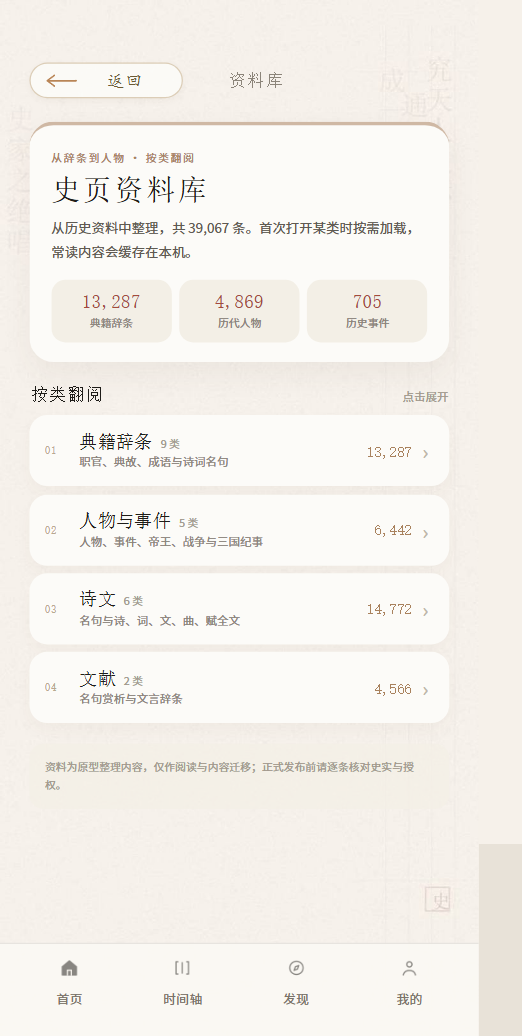
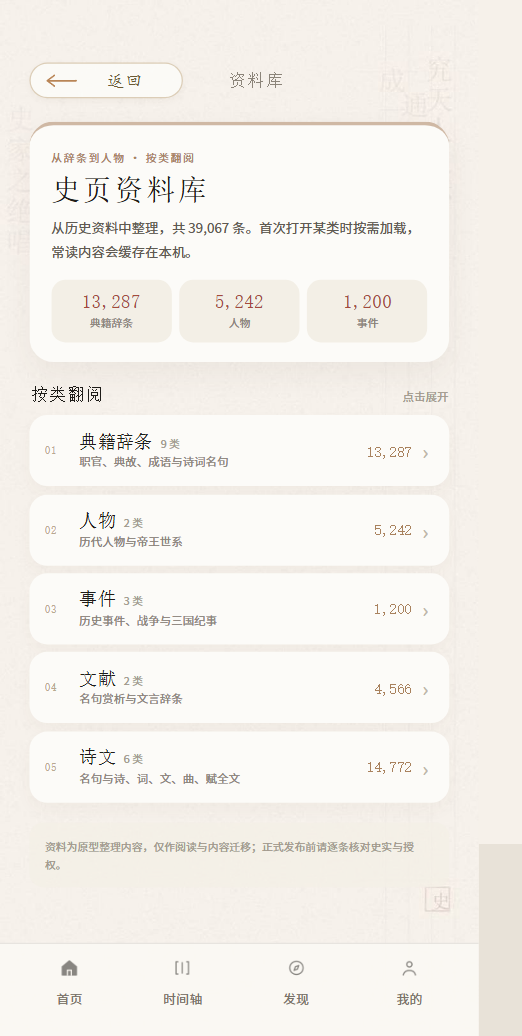
feat: 资料库人物、事件、文献、诗文单独成组（selftest 1576）

diff --git a/ui/preview/_bundle.js b/ui/preview/_bundle.js
@@ -5183,15 +5183,17 @@ function safeTitle(value, fallback) {
 
 const GROUP_DEFS = [
   { key: 'cards', name: '典籍辞条', desc: '职官、典故、成语与诗词名句' },
-  { key: 'people', name: '人物与事件', desc: '人物、事件、帝王、战争与三国纪事' },
-  { key: 'poems', name: '诗文', desc: '名句与诗、词、文、曲、赋全文' },
-  { key: 'docs', name: '文献', desc: '名句赏析与文言辞条' }
+  { key: 'people', name: '人物', desc: '历代人物与帝王世系' },
+  { key: 'events', name: '事件', desc: '历史事件、战争与三国纪事' },
+  { key: 'docs', name: '文献', desc: '名句赏析与文言辞条' },
+  { key: 'poems', name: '诗文', desc: '名句与诗、词、文、曲、赋全文' }
 ];
 
 const GROUP_KEYS = {
-  people: ['figures', 'events', 'emperors', 'wars', 'dynasty'],
-  poems: ['poemquotes', 'poems-shi', 'poems-ci', 'poems-wen', 'poems-qu', 'poems-fu'],
-  docs: ['quotes', 'wenyan']
+  people: ['figures', 'emperors'],
+  events: ['events', 'wars', 'dynasty'],
+  docs: ['quotes', 'wenyan'],
+  poems: ['poemquotes', 'poems-shi', 'poems-ci', 'poems-wen', 'poems-qu', 'poems-fu']
 };
 
 function buildRows(groups, openKey) {
@@ -5279,6 +5281,12 @@ Page('project://pages/archive/archive.js', {
         items
       };
     });
+    const groupByKey = {};
+    groups.forEach((group) => {
+      groupByKey[group.key] = group;
+    });
+    stats.figuresText = fmt(groupByKey.people.count);
+    stats.eventsText = fmt(groupByKey.events.count);
     this.groups = groups;
     this.setData({
       stats,
@@ -5338,7 +5346,7 @@ Page('project://pages/archive/archive.js', {
 });
 
 });
-__register('/pages/archive/archive.wxml', function (require, module, exports) { module.exports = "<view class=\"page fs-{{fontClass}}\">\n  <image class=\"paper-bg\" src=\"/assets/paper-bg.jpg\" mode=\"aspectFill\"></image>\n  <view class=\"screen\">\n    <view class=\"topbar\">\n      <view class=\"back\" bindtap=\"goBack\">\n        <image class=\"back-arrow\" src=\"/assets/back-arrow.png\" mode=\"widthFix\"></image>\n        <text class=\"back-label\">返回</text>\n      </view>\n      <text class=\"top-title\">资料库</text>\n    </view>\n\n    <view class=\"hero\">\n      <text class=\"hero-kicker\">从辞条到人物 · 按类翻阅</text>\n      <text class=\"hero-title\">史页资料库</text>\n      <text class=\"hero-desc\">从历史资料中整理，共 {{stats.totalText}} 条。首次打开某类时按需加载，常读内容会缓存在本机。</text>\n      <view class=\"hero-stats\">\n        <view class=\"hstat\">\n          <text class=\"hnum\">{{stats.cardsText}}</text>\n          <text class=\"hlab\">典籍辞条</text>\n        </view>\n        <view class=\"hstat\">\n          <text class=\"hnum\">{{stats.figuresText}}</text>\n          <text class=\"hlab\">历代人物</text>\n        </view>\n        <view class=\"hstat\">\n          <text class=\"hnum\">{{stats.eventsText}}</text>\n          <text class=\"hlab\">历史事件</text>\n        </view>\n      </view>\n    </view>\n\n    <view class=\"section-head\">\n      <text class=\"section-title\">按类翻阅</text>\n      <text class=\"section-link\">{{openKey ? '再点收起' : '点击展开'}}</text>\n    </view>\n    <view class=\"group-list\">\n      <block wx:for=\"{{rows}}\" wx:key=\"key\">\n        <view\n          wx:if=\"{{item.rowType === 'group'}}\"\n          class=\"group-card {{item.open ? 'open' : ''}}\"\n          data-key=\"{{item.groupKey}}\"\n          bindtap=\"onToggle\"\n        >\n          <text class=\"group-index\">{{item.index}}</text>\n          <view class=\"group-main\">\n            <view class=\"group-title-row\">\n              <text class=\"group-name\">{{item.name}}</text>\n              <text class=\"group-meta\">{{item.meta}}</text>\n            </view>\n            <text class=\"group-desc\">{{item.desc}}</text>\n          </view>\n          <text class=\"group-count\">{{item.countText}}</text>\n          <text class=\"group-chevron {{item.open ? 'open' : ''}}\">›</text>\n        </view>\n        <view\n          wx:elif=\"{{item.rowType === 'item'}}\"\n          class=\"entry-row\"\n          data-kind=\"{{item.kind}}\"\n          data-type=\"{{item.type}}\"\n          data-name=\"{{item.name}}\"\n          bindtap=\"onEntry\"\n        >\n          <view class=\"entry-main\">\n            <text class=\"entry-name\">{{item.name}}</text>\n            <text class=\"entry-desc\">{{item.desc}}</text>\n          </view>\n          <text class=\"entry-count\">{{item.countText}}</text>\n          <text class=\"entry-arrow\">›</text>\n        </view>\n      </block>\n    </view>\n\n    <view class=\"note\">资料为原型整理内容，仅作阅读与内容迁移；正式发布前请逐条核对史实与授权。</view>\n  </view>\n</view>\n"; });
+__register('/pages/archive/archive.wxml', function (require, module, exports) { module.exports = "<view class=\"page fs-{{fontClass}}\">\n  <image class=\"paper-bg\" src=\"/assets/paper-bg.jpg\" mode=\"aspectFill\"></image>\n  <view class=\"screen\">\n    <view class=\"topbar\">\n      <view class=\"back\" bindtap=\"goBack\">\n        <image class=\"back-arrow\" src=\"/assets/back-arrow.png\" mode=\"widthFix\"></image>\n        <text class=\"back-label\">返回</text>\n      </view>\n      <text class=\"top-title\">资料库</text>\n    </view>\n\n    <view class=\"hero\">\n      <text class=\"hero-kicker\">从辞条到人物 · 按类翻阅</text>\n      <text class=\"hero-title\">史页资料库</text>\n      <text class=\"hero-desc\">从历史资料中整理，共 {{stats.totalText}} 条。首次打开某类时按需加载，常读内容会缓存在本机。</text>\n      <view class=\"hero-stats\">\n        <view class=\"hstat\">\n          <text class=\"hnum\">{{stats.cardsText}}</text>\n          <text class=\"hlab\">典籍辞条</text>\n        </view>\n        <view class=\"hstat\">\n          <text class=\"hnum\">{{stats.figuresText}}</text>\n          <text class=\"hlab\">人物</text>\n        </view>\n        <view class=\"hstat\">\n          <text class=\"hnum\">{{stats.eventsText}}</text>\n          <text class=\"hlab\">事件</text>\n        </view>\n      </view>\n    </view>\n\n    <view class=\"section-head\">\n      <text class=\"section-title\">按类翻阅</text>\n      <text class=\"section-link\">{{openKey ? '再点收起' : '点击展开'}}</text>\n    </view>\n    <view class=\"group-list\">\n      <block wx:for=\"{{rows}}\" wx:key=\"key\">\n        <view\n          wx:if=\"{{item.rowType === 'group'}}\"\n          class=\"group-card {{item.open ? 'open' : ''}}\"\n          data-key=\"{{item.groupKey}}\"\n          bindtap=\"onToggle\"\n        >\n          <text class=\"group-index\">{{item.index}}</text>\n          <view class=\"group-main\">\n            <view class=\"group-title-row\">\n              <text class=\"group-name\">{{item.name}}</text>\n              <text class=\"group-meta\">{{item.meta}}</text>\n            </view>\n            <text class=\"group-desc\">{{item.desc}}</text>\n          </view>\n          <text class=\"group-count\">{{item.countText}}</text>\n          <text class=\"group-chevron {{item.open ? 'open' : ''}}\">›</text>\n        </view>\n        <view\n          wx:elif=\"{{item.rowType === 'item'}}\"\n          class=\"entry-row\"\n          data-kind=\"{{item.kind}}\"\n          data-type=\"{{item.type}}\"\n          data-name=\"{{item.name}}\"\n          bindtap=\"onEntry\"\n        >\n          <view class=\"entry-main\">\n            <text class=\"entry-name\">{{item.name}}</text>\n            <text class=\"entry-desc\">{{item.desc}}</text>\n          </view>\n          <text class=\"entry-count\">{{item.countText}}</text>\n          <text class=\"entry-arrow\">›</text>\n        </view>\n      </block>\n    </view>\n\n    <view class=\"note\">资料为原型整理内容，仅作阅读与内容迁移；正式发布前请逐条核对史实与授权。</view>\n  </view>\n</view>\n"; });
 __register('/pages/archive/archive.wxss', function (require, module, exports) { module.exports = ".page {\n  position: relative;\n  min-height: 100vh;\n  overflow: hidden;\n  background: #F6F1EA;\n}\n\n.paper-bg {\n  position: fixed;\n  left: 0;\n  top: 0;\n  z-index: 0;\n  width: 100%;\n  height: 100%;\n  opacity: 0.96;\n}\n\n.screen {\n  position: relative;\n  z-index: 2;\n  padding: 0 46rpx 120rpx;\n}\n\n.topbar {\n  position: relative;\n  margin-top: 88rpx;\n  height: 76rpx;\n  display: flex;\n  align-items: center;\n  justify-content: space-between;\n}\n\n.back {\n  position: relative;\n  width: 240rpx;\n  height: 56rpx;\n  border-radius: 28rpx;\n  border: 1rpx solid rgba(176, 142, 96, 0.42);\n  background: rgba(252, 251, 248, 0.86);\n  box-shadow: 0 4rpx 12rpx rgba(90, 70, 50, 0.05);\n  overflow: hidden;\n}\n\n.back-arrow {\n  position: absolute;\n  left: 20rpx;\n  top: 50%;\n  width: 56rpx;\n  height: auto;\n  display: block;\n  transform: translateY(-50%);\n}\n\n.back-label {\n  position: absolute;\n  left: 76rpx;\n  right: 18rpx;\n  top: 0;\n  height: 56rpx;\n  line-height: 56rpx;\n  text-align: center;\n  font-family: \"KaiTi\", \"STKaiti\", \"Songti SC\", serif;\n  font-size: 26rpx;\n  letter-spacing: 0.1em;\n  text-indent: 0.1em;\n  color: #6B5A33;\n}\n\n.top-title {\n  position: absolute;\n  left: 54%;\n  transform: translateX(-50%);\n  font-family: \"Songti SC\", \"STSong\", \"SimSun\", serif;\n  font-size: calc(26rpx * var(--fs, 1));\n  letter-spacing: 0.08em;\n  color: #8C857A;\n}\n\n.hero {\n  position: relative;\n  margin-top: 26rpx;\n  padding: 38rpx 34rpx 32rpx;\n  border-radius: 38rpx;\n  background: #FCFBF8;\n  border-top: 6rpx solid rgba(169, 130, 94, 0.55);\n  box-shadow: 0 20rpx 46rpx rgba(90, 70, 50, 0.06);\n}\n\n.hero-kicker {\n  display: block;\n  font-size: calc(17rpx * var(--fs, 1));\n  letter-spacing: 0.14em;\n  color: #A9825E;\n}\n\n.hero-title {\n  display: block;\n  margin-top: 12rpx;\n  font-family: \"Songti SC\", \"STSong\", \"SimSun\", serif;\n  font-size: calc(46rpx * var(--fs, 1));\n  letter-spacing: 0.08em;\n  color: #1F1D19;\n}\n\n.hero-desc {\n  display: block;\n  margin-top: 16rpx;\n  font-size: calc(21rpx * var(--fs, 1));\n  line-height: 1.75;\n  color: #5F5A52;\n}\n\n.hero-stats {\n  display: flex;\n  gap: 12rpx;\n  margin-top: 26rpx;\n}\n\n.hstat {\n  flex: 1;\n  min-width: 0;\n  padding: 18rpx 12rpx;\n  border-radius: 22rpx;\n  background: #F3EFE6;\n  text-align: center;\n}\n\n.hnum {\n  display: block;\n  font-family: \"Songti SC\", \"STSong\", \"SimSun\", serif;\n  font-size: calc(30rpx * var(--fs, 1));\n  color: #A34A3E;\n}\n\n.hlab {\n  display: block;\n  margin-top: 4rpx;\n  font-size: calc(17rpx * var(--fs, 1));\n  color: #8C857A;\n}\n\n.section-head {\n  display: flex;\n  align-items: baseline;\n  justify-content: space-between;\n  margin: 36rpx 2rpx 16rpx;\n}\n\n.section-title {\n  font-family: \"Songti SC\", \"STSong\", \"SimSun\", serif;\n  font-size: calc(27rpx * var(--fs, 1));\n  letter-spacing: 0.08em;\n  color: #1F1D19;\n}\n\n.section-link {\n  font-size: calc(18rpx * var(--fs, 1));\n  color: #A39A8E;\n}\n\n.group-list {\n  display: block;\n}\n\n.group-card {\n  display: flex;\n  align-items: center;\n  margin-bottom: 12rpx;\n  padding: 24rpx;\n  border-radius: 28rpx;\n  background: #FCFBF8;\n  box-shadow: 0 12rpx 26rpx rgba(90, 70, 50, 0.04);\n}\n\n.group-card:active {\n  background: #F7F3EC;\n}\n\n.group-card.open {\n  background: #FBF7EF;\n  box-shadow: 0 14rpx 30rpx rgba(90, 70, 50, 0.06);\n}\n\n.group-index {\n  flex: none;\n  width: 38rpx;\n  font-family: \"Songti SC\", \"STSong\", \"SimSun\", serif;\n  font-size: calc(18rpx * var(--fs, 1));\n  letter-spacing: 0.06em;\n  color: #B9A98F;\n}\n\n.group-main {\n  flex: 1;\n  min-width: 0;\n  margin: 0 16rpx;\n}\n\n.group-title-row {\n  display: flex;\n  align-items: baseline;\n}\n\n.group-name {\n  font-family: \"Songti SC\", \"STSong\", \"SimSun\", serif;\n  font-size: calc(28rpx * var(--fs, 1));\n  color: #1F1D19;\n}\n\n.group-meta {\n  margin-left: 12rpx;\n  font-size: calc(17rpx * var(--fs, 1));\n  color: #A39A8E;\n}\n\n.group-desc {\n  display: block;\n  margin-top: 5rpx;\n  font-size: calc(18rpx * var(--fs, 1));\n  line-height: 1.45;\n  color: #8C857A;\n  white-space: nowrap;\n  overflow: hidden;\n  text-overflow: ellipsis;\n}\n\n.group-count {\n  flex: none;\n  font-family: \"Songti SC\", \"STSong\", \"SimSun\", serif;\n  font-size: calc(24rpx * var(--fs, 1));\n  color: #A9825E;\n}\n\n.group-chevron {\n  flex: none;\n  width: 28rpx;\n  margin-left: 8rpx;\n  text-align: center;\n  font-size: 30rpx;\n  color: #C0B6A8;\n  transition: transform 0.2s ease;\n}\n\n.group-chevron.open {\n  transform: rotate(90deg);\n}\n\n.entry-row {\n  display: flex;\n  align-items: center;\n  margin: 0 8rpx 8rpx;\n  padding: 20rpx 20rpx 20rpx 24rpx;\n  border-radius: 20rpx;\n  border-left: 3rpx solid rgba(169, 130, 94, 0.18);\n  background: #FCFBF8;\n  box-shadow: 0 6rpx 14rpx rgba(90, 70, 50, 0.03);\n}\n\n.entry-row:active {\n  background: #F7F3EC;\n}\n\n.entry-main {\n  flex: 1;\n  min-width: 0;\n}\n\n.entry-name {\n  display: block;\n  font-family: \"Songti SC\", \"STSong\", \"SimSun\", serif;\n  font-size: calc(24rpx * var(--fs, 1));\n  color: #1F1D19;\n}\n\n.entry-desc {\n  display: block;\n  margin-top: 4rpx;\n  font-size: calc(17rpx * var(--fs, 1));\n  line-height: 1.45;\n  color: #8C857A;\n  white-space: nowrap;\n  overflow: hidden;\n  text-overflow: ellipsis;\n}\n\n.entry-count {\n  flex: none;\n  margin-left: 16rpx;\n  font-family: \"Songti SC\", \"STSong\", \"SimSun\", serif;\n  font-size: calc(21rpx * var(--fs, 1));\n  color: #A9825E;\n}\n\n.entry-arrow {\n  flex: none;\n  margin-left: 8rpx;\n  font-family: \"Songti SC\", \"STSong\", \"SimSun\", serif;\n  font-size: 28rpx;\n  color: #C0B6A8;\n}\n\n.note {\n  margin-top: 32rpx;\n  padding: 22rpx 24rpx;\n  border-radius: 22rpx;\n  background: rgba(243, 239, 230, 0.7);\n  font-size: calc(17rpx * var(--fs, 1));\n  line-height: 1.7;\n  color: #A39A8E;\n}\n"; });
 __register('/pages/archive-list/archive-list.js', function (require, module, exports) {
 const font = require('../../utils/font.js');

diff --git a/tools/selftest.js b/tools/selftest.js
@@ -700,15 +700,39 @@ console.log('== 资料库 ==');
   eq(archive.data.categories.length, 9, '资料库九个辞条分类');
   eq(archive.data.sections.length, 13, '资料库十三个人物/事件/文献入口');
   eq(archive.data.categories[0].name, '职官辞典', '资料库分类按数量排序');
-  eq(archive.data.rows.length, 4, '资料库首屏只展示四个分类组');
+  eq(archive.data.rows.length, 5, '资料库首屏展示五个分类组');
   eq(archive.data.rows[0].name, '典籍辞条', '资料库首组为典籍辞条');
+  eq(archive.data.groups.length, 5, '资料库五个分类组');
+  eq(archive.data.groups[1].name, '人物', '人物单独成组');
+  eq(archive.data.groups[1].countText, '5,242', '人物组数量');
+  eq(archive.data.groups[2].name, '事件', '事件单独成组');
+  eq(archive.data.groups[2].countText, '1,200', '事件组数量');
+  eq(archive.data.groups[3].name, '文献', '文献单独成组');
+  eq(archive.data.groups[3].countText, '4,566', '文献组数量');
+  eq(archive.data.groups[4].name, '诗文', '诗文单独成组');
+  eq(archive.data.groups[4].countText, '14,772', '诗文组数量');
+  eq(archive.data.stats.figuresText, '5,242', '首屏人物统计与人物组一致');
+  eq(archive.data.stats.eventsText, '1,200', '首屏事件统计与事件组一致');
 
   tap(archive, 'onToggle', { key: 'cards' });
   eq(archive.data.openKey, 'cards', '展开典籍辞条');
-  eq(archive.data.rows.length, 13, '展开后显示九个辞条分类');
+  eq(archive.data.rows.length, 14, '展开后显示九个辞条分类');
   eq(archive.data.rows[1].name, '职官辞典', '展开后首条为职官辞典');
   tap(archive, 'onToggle', { key: 'cards' });
-  eq(archive.data.rows.length, 4, '再次点击收起分类组');
+  eq(archive.data.rows.length, 5, '再次点击收起分类组');
+
+  tap(archive, 'onToggle', { key: 'people' });
+  eq(archive.data.rows.length, 7, '展开人物组显示两个入口');
+  eq(archive.data.rows[2].name, '历代人物', '人物组首条为历代人物');
+  tap(archive, 'onToggle', { key: 'people' });
+
+  tap(archive, 'onToggle', { key: 'events' });
+  eq(archive.data.rows.length, 8, '展开事件组显示三个入口');
+  ok(
+    archive.data.rows.some((row) => row.name === '历代战争'),
+    '事件组包含历代战争'
+  );
+  tap(archive, 'onToggle', { key: 'events' });
 
   tap(archive, 'onToggle', { key: 'poems' });
   ok(

diff --git a/miniprogram/pages/archive/archive.js b/miniprogram/pages/archive/archive.js
@@ -14,15 +14,17 @@ function safeTitle(value, fallback) {
 
 const GROUP_DEFS = [
   { key: 'cards', name: '典籍辞条', desc: '职官、典故、成语与诗词名句' },
-  { key: 'people', name: '人物与事件', desc: '人物、事件、帝王、战争与三国纪事' },
-  { key: 'poems', name: '诗文', desc: '名句与诗、词、文、曲、赋全文' },
-  { key: 'docs', name: '文献', desc: '名句赏析与文言辞条' }
+  { key: 'people', name: '人物', desc: '历代人物与帝王世系' },
+  { key: 'events', name: '事件', desc: '历史事件、战争与三国纪事' },
+  { key: 'docs', name: '文献', desc: '名句赏析与文言辞条' },
+  { key: 'poems', name: '诗文', desc: '名句与诗、词、文、曲、赋全文' }
 ];
 
 const GROUP_KEYS = {
-  people: ['figures', 'events', 'emperors', 'wars', 'dynasty'],
-  poems: ['poemquotes', 'poems-shi', 'poems-ci', 'poems-wen', 'poems-qu', 'poems-fu'],
-  docs: ['quotes', 'wenyan']
+  people: ['figures', 'emperors'],
+  events: ['events', 'wars', 'dynasty'],
+  docs: ['quotes', 'wenyan'],
+  poems: ['poemquotes', 'poems-shi', 'poems-ci', 'poems-wen', 'poems-qu', 'poems-fu']
 };
 
 function buildRows(groups, openKey) {
@@ -110,6 +112,12 @@ Page({
         items
       };
     });
+    const groupByKey = {};
+    groups.forEach((group) => {
+      groupByKey[group.key] = group;
+    });
+    stats.figuresText = fmt(groupByKey.people.count);
+    stats.eventsText = fmt(groupByKey.events.count);
     this.groups = groups;
     this.setData({
       stats,

diff --git a/AGENTS.md b/AGENTS.md
@@ -12,7 +12,7 @@
 - 原生小程序（13 页全部落地）：首页 / 时间轴 / 发现 / 我的 + 人物、事件、**朝代**详情页 + 搜索页 + 收藏、足迹独立页 + **资料库首页/列表/详情**；数据=本地真实历史种子 `miniprogram/data/history.js`（100 史事 / 72 人物 / 24 朝代 / 2 专题 + 今日史事日期库 16 组），并叠加 **jsDelivr 远端热更**：`utils/historyData.js` 数据中枢统一供数，远端 JSON（`data/history.json`，由 `tools/build_data_json.js` 生成——**改数据后必须重建并提交**）；「我的」页「检查内容更新」可 purge jsDelivr 缓存即时生效（`purge.jsdelivr.net` 需白名单）。首页「历史上的今天」板块走 **60s API**（`utils/api.js`，天级缓存 6h，失败自动隐藏板块）。在线域名白名单：`cdn.jsdelivr.net`、`purge.jsdelivr.net`、`60s.viki.moe`。
 - 「史页资料库」：APK 数据 39,067 条（辞条 13,287 / 人物 4,869 / 事件 705 / 帝王 373 / 战争 466 / 三国纪事 29 / 名句 677 / 文言辞条 3,889 / 诗文名句 3,955 / 诗文全文 10,817），入口在发现页；数据放 `miniprogram/data/apk/`，由 `project.config.json` 的 `packOptions.ignore` 排除出主包，`utils/apkData.js` 通过 jsDelivr 按需加载（内存 + 7 天本地缓存，单类 >1.5MB 只留内存）。诗文全文按诗/词/文/曲/赋拆分索引与分卷（每册 100–300 篇），列表只加载索引，详情按 `shard` 加载单册。原始 APK/DB 在 `import/`，不提交。
 - 收藏 / 浏览足迹已落地（本地存储，utils/store.js，收藏行支持长按移出）；「我的」页各只展示前 3 条，>3 条时「查看全部」进独立分类页，独立页支持清空；分享已接入各页。
-- 质量链路：`node tools/selftest.js`（1561 断言交互自测）+ `ui/preview/` 浏览器渲染 harness（28 张标准截图核对）+ `python tools/validate_miniprogram.py` 静态校验。
+- 质量链路：`node tools/selftest.js`（1576 断言交互自测）+ `ui/preview/` 浏览器渲染 harness（28 张标准截图核对）+ `python tools/validate_miniprogram.py` 静态校验。
 - 尚无后端。
 
 > 重要：`ui/neo/` 与 `docs/UI设计说明.md` 是上一版“极简新中式”探索，**已归档，不是当前视觉基准**。当前基准是这份说明、`docs/DEVELOPMENT_LOG.md` 和 `ui/reference/home-v3.html`。
@@ -48,7 +48,7 @@
 | 事件详情 | 已实现 | `miniprogram/pages/event/` | 头卡右侧装裱画片（按 era 取画，200rpx 白边小画）、大字年份、双色调色条、正文段落、"其时其人"人物卡（时代细部缩略图 + 姓名，跳人物详情）、收藏按钮、回时间轴按钮 |
 | 朝代详情 | 已实现 | `miniprogram/pages/period/` | 配画头卡、时代脉络段、收录史事列表（纪年升序）；home 磁贴/发现页朝代卡均跳此页；24 个朝代均有 PERIOD_META，西晋/秦/南宋等可直接查看 |
 | 发现 | 已实现（占位说明保留在页尾） | `miniprogram/pages/discover/` | 精选 6 张朝代配画卡（西汉/唐/北宋/明/清/近现代）；顶部「史页资料库」入口（39,067 条）；其余 18 个朝代从首页「朝代」弹层/搜索进入，避免发现页被同质配图淹没；专题长卷、精选史事列表 |
-| 资料库首页 | 已实现 | `miniprogram/pages/archive/` | 资料总量 + 4 个默认收起的分类组（典籍辞条 / 人物与事件 / 诗文 / 文献），点击展开 9+5+6+2 个入口；数据来自 `data/archive-meta.js` |
+| 资料库首页 | 已实现 | `miniprogram/pages/archive/` | 资料总量 + 5 个默认收起的分类组（典籍辞条 / 人物 / 事件 / 文献 / 诗文），点击展开 9+2+3+2+6 个入口；数据来自 `data/archive-meta.js` |
 | 资料库列表 | 已实现 | `miniprogram/pages/archive-list/` | 分类/人物/事件/名句/文言/诗文列表，搜索 + 60 条分页加载；数据走 `utils/apkData.js` |
 | 资料详情 | 已实现 | `miniprogram/pages/archive-detail/` | 标题/分类/资料卡/正文分段/译文/分享；不引用 APK 外部图片 |
 | 我的 | 已实现 | `miniprogram/pages/profile/` | 手绘史官头像（`assets/avatar-scholar.png`）、装裱画片横幅、收藏/足迹配图缩略图（各只展示前 3 条 + 查看全部入口）、阅读字号设置、本地数据统计、数据/素材/关于说明、清除缓存 |
@@ -86,7 +86,7 @@ E:\AI\history\
 │  ├─ assets\                        # 参考图裁切插画、宣纸背景、paintings 搜图素材(SOURCES.md)、图标 PNG
 │  └─ pages\home|timeline|discover|profile|person|event|period|search|favorites|footprints|archive|archive-list|archive-detail
 ├─ tools\
-│  ├─ selftest.js                   # 交互自测（node tools/selftest.js；PASS 1561 / FAIL 0）
+│  ├─ selftest.js                   # 交互自测（node tools/selftest.js；PASS 1576 / FAIL 0）
 │  ├─ build_preview.js              # 小程序源码 → ui/preview/_bundle.js
 │  ├─ preview_server.js             # 静态服务（http://127.0.0.1:8137）
 │  ├─ preview_shots.js              # 批量截图 28 张 → ui/preview/shots/
@@ -136,7 +136,7 @@ E:\AI\history\ui\reference\home-v3.html
 ### 自测工具（2026-10-19 起可用）
 
 ```powershell
-# 交互自测（mock wx/Page 跑真实页面代码；PASS 1561 / FAIL 0）
+# 交互自测（mock wx/Page 跑真实页面代码；PASS 1576 / FAIL 0）
 node tools/selftest.js
 
 # 浏览器 UI 预览：起服务 → 打开 http://127.0.0.1:8137/ui/preview/index.html#home

diff --git a/docs/DEVELOPMENT_LOG.md b/docs/DEVELOPMENT_LOG.md
@@ -1491,3 +1491,28 @@ miniprogram/data/history.js
 - `python tools/validate_miniprogram.py`：`OK: 13 pages, JSON/assets/WXML checks passed.`
 - `node tools/build_preview.js` 成功；`node tools/preview_shots.js` **28 张截图全部成功**，新增 `28-archive-cards-open`。
 - 仍需真机确认：折叠展开后的滚动位置、资料库首次加载耗时、微信原生胶囊实际位置、320px 窄屏布局与底部安全区。
+
+---
+
+## 2026-10-23 · 第三十一轮：人物 / 事件 / 文献 / 诗文 单独成组
+
+**用户反馈**：资料库首页应按「人物 · 事件 · 文献 · 诗文」分别展示，不再把人物和事件合成一组。
+
+**调整**
+
+- 资料库首页分类组由 4 组调整为 5 组，保留典籍辞条，并把人物、事件拆开：
+  - 典籍辞条：9 类，13,287 条
+  - 人物：2 类（历代人物 4,869 / 历代帝王 373），5,242 条
+  - 事件：3 类（历史事件 705 / 历代战争 466 / 三国纪事 29），1,200 条
+  - 文献：2 类（名句赏析 677 / 文言辞条 3,889），4,566 条
+  - 诗文：6 类（诗文名句 3,955 / 诗 2,938 / 词 4,523 / 文 2,991 / 曲 338 / 赋 27），14,772 条
+- 五组合计仍为 39,067 条，数据未增删；首页首屏只显示 5 个组头，默认全部收起。
+- 首屏统计改为 `13,287 / 5,242 / 1,200`（典籍辞条 / 人物 / 事件），与分组数量一致，标签由「历代人物 / 历史事件」改为「人物 / 事件」。
+- `GROUP_DEFS` / `GROUP_KEYS` 拆分人物与事件；折叠、展开、单组互斥和进入列表逻辑不变。
+
+**校验**
+
+- `node tools/selftest.js`：**PASS 1576 / FAIL 0**；新增五组名称/数量、人物组首条、事件组包含历代战争、首屏统计与分组一致等断言。
+- `python tools/validate_miniprogram.py`：`OK: 13 pages, JSON/assets/WXML checks passed.`
+- `node tools/build_preview.js` 成功；`node tools/preview_shots.js` **28 张截图全部成功**；`21-archive.png` 已更新为五组首屏，`28-archive-cards-open.png` 仍正常。
+- 仍需真机确认五组首屏高度、展开后的滚动位置和原生胶囊位置。

diff --git a/miniprogram/README.md b/miniprogram/README.md
@@ -26,7 +26,7 @@
 | 搜索 | 已实现 |
 | 收藏 | 已实现 |
 | 足迹 | 已实现 |
-| 资料库首页 | 已实现；39,067 条资料，4 个默认收起的分类组（典籍辞条 / 人物与事件 / 诗文 / 文献），展开后共 22 个入口 |
+| 资料库首页 | 已实现；39,067 条资料，5 个默认收起的分类组（典籍辞条 / 人物 / 事件 / 文献 / 诗文），展开后共 22 个入口 |
 | 资料库列表 | 已实现；搜索 + 60 条分页加载；诗文列表按体裁进入 |
 | 资料详情 | 已实现；正文分段/资料卡/译文/分享；诗文按分卷加载 |
 
